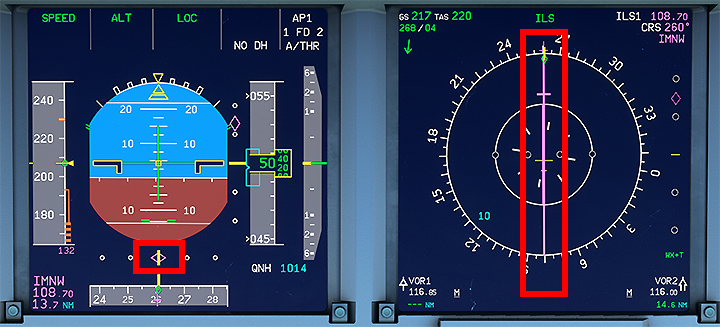
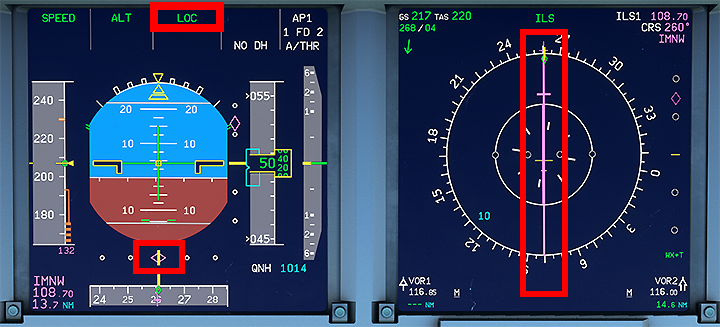
First draft sections 1-4 (Landing)

Changed region(s): [[0.1833, 0.0, 0.3361, 0.1223]]

diff --git a/docs/beginner-guide/landing.md b/docs/beginner-guide/landing.md
@@ -28,7 +28,7 @@ Aircraft is on approach shortly before intercepting the ILS and is still in phas
 This guide will cover these phases:
 
 1. [Intercepting the ILS Localizer](#1-intercepting-the-ils-localizer)
-2. [Intercepting the ILS Glidescope](#2-intercepting-the-ils-glidescope)
+2. [Intercepting the ILS Glideslope](#2-intercepting-the-ils-glideslope)
 3. [Preparation and Checklist for Landing](#3-preparation-and-checklist-for-landing)
 4. [Landing](#4-landing)
 5. [Vacate Runway](#5-vacate-runway)
@@ -44,7 +44,7 @@ This guide will cover these phases:
 - Aircraft is setup for flight <10,000ft (`seat belt signs` on, `landing lights` on, etc.)
 - We are either within the IAP (Instrument Approach) and at the correct altitude and speed or at a heading vector, altitude and speed instructed by ATC
 
-At the end of the Instrument Approach (or by ATC vectoring) we will be on a path to the Final Approach Fix and/or intercepting the ILS localizer and eventually the ILS glidescope.
+At the end of the Instrument Approach (or by ATC vectoring) we will be on a path to the Final Approach Fix and/or intercepting the ILS localizer and eventually the ILS glideslope.
 
 As a last instruction from ATC Approach we usually are instructed to contact Tower ATC when fully established on the ILS localizer.
 
@@ -60,7 +60,7 @@ To intercept the ILS Localizer follow the following steps:
         *<sub>Copyright © 2021 Navigraph / Jeppesen<br/>
         "Navigraph Charts are intended for flight simulation use only, not for navigational use."</sub>*
 
-- Turn on the `ILS localizer and glidescope scales` with the `ILS` button on the glareshield.
+- Turn on the `ILS localizer and glideslope scales` with the `ILS` button on the glareshield.
 
     === "Turn on ILS scales"
 
@@ -70,7 +70,8 @@ To intercept the ILS Localizer follow the following steps:
 
 - Make sure we are on the correct altitude and we should not have an approach angle larger than 30°.<br/>
 
-    ![EDDM ILS 26R chart](../assets/beginner-guide/landing/EDDM_ILS_26R_30_chart.png "EDDM ILS 26R chart")
+    ![EDDM ILS 26R chart](../assets/beginner-guide/landing/EDDM_ILS_26R_30_chart.png "EDDM ILS 26R chart")<br/>
+    ![EDDM glideslope](../assets/beginner-guide/landing/EDDM_ILS_26R_GS_chart.png "EDDM glideslope")
 
 - Optional: Turn on `ILS Mode` for the `ND` (can also be on F.O.'s side)
 
@@ -80,45 +81,97 @@ To intercept the ILS Localizer follow the following steps:
 
     ![Activate APPR in ECAM PERF](../assets/beginner-guide/landing/ECAM_PERF_activate_APPR.png "Activate APPR in ECAM PERF"){width=360}
 
-- Set `SPEED` to `Manages Speed Mode` (push the `Speed Selector`)
+- Set `SPEED` to `Managed Speed Mode` (push the `Speed Selector`)
 - Set `FLAPS` to 1 when speed is below V~FE~ for the first slat/flap configuration
 
     ![VFE for next configuration](../assets/beginner-guide/landing/PFD_Speedband_flaps_marker.png "VFE for next configuration")
 
-- Turn on `LOC` in the `FCU` to command the aircraft to intercept the ILS localizer. The aircraft will keep the current heading until the localizer guides the aircraft towards the runway. The `lateral ILS localizer scale` shows the `deviation marker` moving towards the middle of the `lateral deviation scale`.
+- Turn on `LOC` in the `FCU` to command the aircraft to intercept the ILS localizer. The aircraft will keep the current heading until the localizer guides the aircraft towards the runway. The `lateral ILS localizer scale` shows the `deviation marker` moving towards the middle of the `lateral deviation scale`. Also the lateral `FMA` shows `LOC` in blue (armed).
 
     ![Activate LOC mode on FCU](../assets/beginner-guide/landing/FCU_LOC.png "Activate LOC mode on FCU")
 
     ![ILS lateral deviation marker moving inwards](../assets/beginner-guide/landing/PFD_ILS_deviation_scale.png "ILS lateral deviation marker moving inwards")
 
-- When we are established on the ILS localizer we will contact Tower ATC and report that we are established on the ILS localizer (including call sign and runway).
+- When we are established on the ILS localizer (the lateral `FMA` shows `LOC` in green) we will contact Tower ATC and report that we are established on the ILS localizer (including call sign and runway).
 
     ![Established on ILS localizer](../assets/beginner-guide/landing/PFD_ND_established.png "Established on ILS localizer")
 
-Tower ATC will the give us clearance for ILS approach for the target runway. This is the actual clearance that we are allowed to also descent along the ILS glidescope.
+Tower ATC will the give us clearance for ILS approach for the target runway. This is the actual clearance that we are allowed to also descent along the ILS glideslope.
 
 **Do not descent without explicit clearance from ATC.**
-
-OPEN QUESTIONS:
-
-* when exactly Landing checklist
-* when exactly instructing cabin to take specialist
-* when exactly flaps
-* ....
 
 This concludes *Intercepting the ILS Localizer*
 
 ---
 
-## 2. Intercepting the ILS Glidescope
+## 2. Intercepting the ILS Glideslope
+
+**Situation:**
+
+- Aircraft is established on ILS localizer
+- Flaps are set to 1
+
+After ATC has given us clearance for ILS approach we can also start descending using the ILS glideslope.
+
+![PFD glideslope deviation marker](../assets/beginner-guide/landing/PFD_ILS_glideslope.png "PFD glideslope deviation marker"){width=360}
+
+Press the APPR button on the FCU to arm the ILS glideslope descent mode.
+
+![Activating APPR mode](../assets/beginner-guide/landing/FCU_ILS_APPR.png "Activating APPR mode")
 
 
-This concludes *Intercepting the ILS Glidescope*
+
+The vertical `FMA` will now show `G/S` (glideslope) in blue.
+
+![PFD FMA showing G/S armed](../assets/beginner-guide/landing/PFD_FMA_GS_armed.png "PFD FMA showing G/S armed"){width=360}
+
+ This is a good time to set `Flaps 2` (check that the speed is below the V~FE~ for the next flap setting) as slowing down once descending along the glideslope can be difficult. We need drag from the flaps if we do not want to let the gear down too early (which also would help us slowing down).
+
+The aircraft will start descending when the deviation marker is in the middle (we are on the glideslope). The vertical `FMA` will then say `G/S` in green.
+
+![PFD when G/S is activated](../assets/beginner-guide/landing/PFD_FMA_GS_active.png "PFD when G/S is activated"){width=360}
+
+We will now descent along the glideslope until the radio altimeter comes alive which happens at 2,500ft above the ground.
+
+![Radio altimeter alive](../assets/beginner-guide/landing/PFD_radio_alt.png "Radio altimeter alive"){width=360}
+
+This concludes *Intercepting the ILS Glideslope*
 
 ---
 
 ## 3. Preparation and Checklist for Landing
 
+**Situation:**
+
+- Aircraft is established on ILS localizer and glideslope
+- Flaps are set to 2
+
+Prepare the aircraft for a Go-Around at this point by setting the Go-Around altitude in the FCU (Detailed Go-Around preparation and procedure are not covered by this beginner guide)
+
+For the final approach do the following steps:
+
+- `Gear down`: Sometime between 2,500ft and 1,000ft , typically around 5-6NM from runway.
+- Set `Flaps 3` and shortly after `Flaps FULL` (always check speed before setting flaps otherwise you get an overspeed alarm).
+- Arm `Auto Brakes` (`Low` when dry, `Med` in rain or snow or a short runway)
+- Arm `Speed Break`
+
+We need to be fully setup at 1,000ft above the ground.
+
+![Fully setup for landing](../assets/beginner-guide/landing/Landing_Cockpit.png "Fully setup for landing")
+
+Complete the **Landing Checklist**
+
+- Cabin Crew: advised
+- A/THR: SPEED or OFF
+- Auto Brake: LO or MED
+- ECAM Memo: LDG no blue
+      - LDG GEAR DN
+      - SIGNS ON
+      - CABIN READY
+      - SPLRS ARM
+      - FLAPS SET
+
+For the landing we have our hand on the thrust levers for a potential go-around so we can quickly push the levers forward into TOGO. **We do not move the levers until the last seconds before landing.**
 
 This concludes *Preparation and Checklist for Landing*
 
@@ -126,6 +179,63 @@ This concludes *Preparation and Checklist for Landing*
 
 ## 4. Landing
 
+**Situation:**
+
+- Aircraft is fully setup for landing as per previous chapters
+- Flaps are set to FULL
+- Aircraft is at about 1,000ft above the ground
+- Wind is calm (no cross wind)
+
+Although the A320 can do an automatic landing (**Autoland**) we will do the more common manual landing.
+
+We **MUST** get landing clearance from ATC before we actually are allowed to land. Without landing clearance we must do a go-around (not part of this beginner guide). Usually ATC will have given us clearance at this point. Late clearance is rare and usually communicated to the us before hand. If we have Minima we need to get clearance before reaching the minimum. With no minimum as in our example we need to get clearance shortly before touchdown otherwise do a go-around.
+
+For this we turn of the **Autopilot** at about 500ft above the ground by pressing the `AP1` button on the `FCU`. We leave the **Autothrust** on so we don't have to worry about thrust and speed at all. Leaving **Autothrust** on for landing is common for the Airbus.
+
+![Cockpit view when AP has been turned off](../assets/beginner-guide/landing/Cockpit_view_AP_off.png "Cockpit view when AP has been turned off")
+
+Now look at the PAPIs which guide us vertically down to the correct touchdown point.  We want two white lights and 2 red lights.
+
+![PAPI indication correct path](../assets/beginner-guide/landing/PAPI_2red2white.png "PAPI indication correct path")
+
+See also [Wikipedia:PAPI](https://en.wikipedia.org/wiki/Precision_approach_path_indicato)
+
+We correct our pitch only very carefully when too high (3-4 white) or too low (3-4 red). We don't need a lot of input to the sidestick to correct.
+
+Also we hold the center line of the runway in a way that it points directly under us.
+
+![Hold the runway center line pointing under us](../assets/beginner-guide/landing/Hold_Runway_Centerline.png "Hold the runway center line pointing under us")
+
+Also correct your final heading and bank very carefully. We should not need to correct much at this point.
+
+!!!info "Crosswind landings"
+    Crosswind landings are beyond the scope of this beginner guide. There many good videos for A320 crosswind landings on Youtube.
+
+ Once over the runway threshold we look to the end of the runway to better judge our pitch especially for the so called **Flare**.
+
+ At the runway threshold we should be about 50ft above ground and prepare to set the thrust levers to idle and flare.
+
+At about 30ft we start our flare by pulling back on the sidestick carefully. We only need a few degrees in positive pitch and hold the aircraft there. Too much flare will cause us to float down the runway, too little will cause a had landing.
+
+At about 10-20ft we pull back the thrust levers to idle (the aircraft also sounds the callout "Retard retard ...") so the we are at idle **before** we touch the ground.
+
+![PFD during flare](../assets/beginner-guide/landing/PFD_Flare.png "PFD during flare"){width=360}
+
+We hold the aircraft until it settles on the ground. Do not push the sidestick forward (nose down) once flared - let the aircraft settle to the runway while holding the pitch.
+
+On touchdown the `Speed Brakes` will deploy automatically (we have armed them earlier) and we can pull the thrust levers into the reverse position.
+
+We let the front gear settle on the runway (don't slam it down) and hold the center line of the runway while we are loosing speed. This can be checked on the `PFD` speedband.
+
+The `Auto Brakes` should now have began to decelerate the aircraft further.
+
+![Reverse Thrust](../assets/beginner-guide/landing/Thrustlevers_Revers.png "Reverse Thrust")
+
+The ECAM should now show the engines in reverse mode (`REV`) and the `Speed Brake` deployed. Also you should notice that the brakes actually get hotter.
+
+![ECAM showing reverser and speed brakes](../assets/beginner-guide/landing/ECAM_Rev_SpeedBrk.png "ECAM showing reverser and speed brakes"){width=360}
+
+At about 60knots we put the thrust levers back to idle and at about 40knots we release the `Auto Brakes` by braking manually which deactivates the `Auto Brake`.
 
 This concludes *Landing*
 
@@ -133,6 +243,7 @@ This concludes *Landing*
 
 ## 5. Vacate Runway
 
+TODO
 
 This concludes *Vacate Runway*
 
